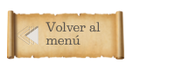
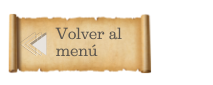
redimensionando los botones

diff --git a/VideoJuego/trabajoFinal/Menu.java b/VideoJuego/trabajoFinal/Menu.java
@@ -29,7 +29,7 @@ public class Menu extends JFrame{
         cargarImagenDeFondo();
         cargarImagenLogo(); //Titulo logo del juego
         //cargando opciones: botones en el menu
-        jugarButton = new JButton(cargarIcon("https://github.com/DeniseHuacani/TrabajoVideoJuego/blob/main/VideoJuego/imagenes/opcionMenu.png?raw=true"));
+        jugarButton = new JButton(cargarIcon("https://github.com/DeniseHuacani/TrabajoVideoJuego/blob/main/VideoJuego/imagenes/opcion%20menu.png?raw=true"));
         
         add(jugarButton);
         jugarButton.addActionListener(new Listener());
